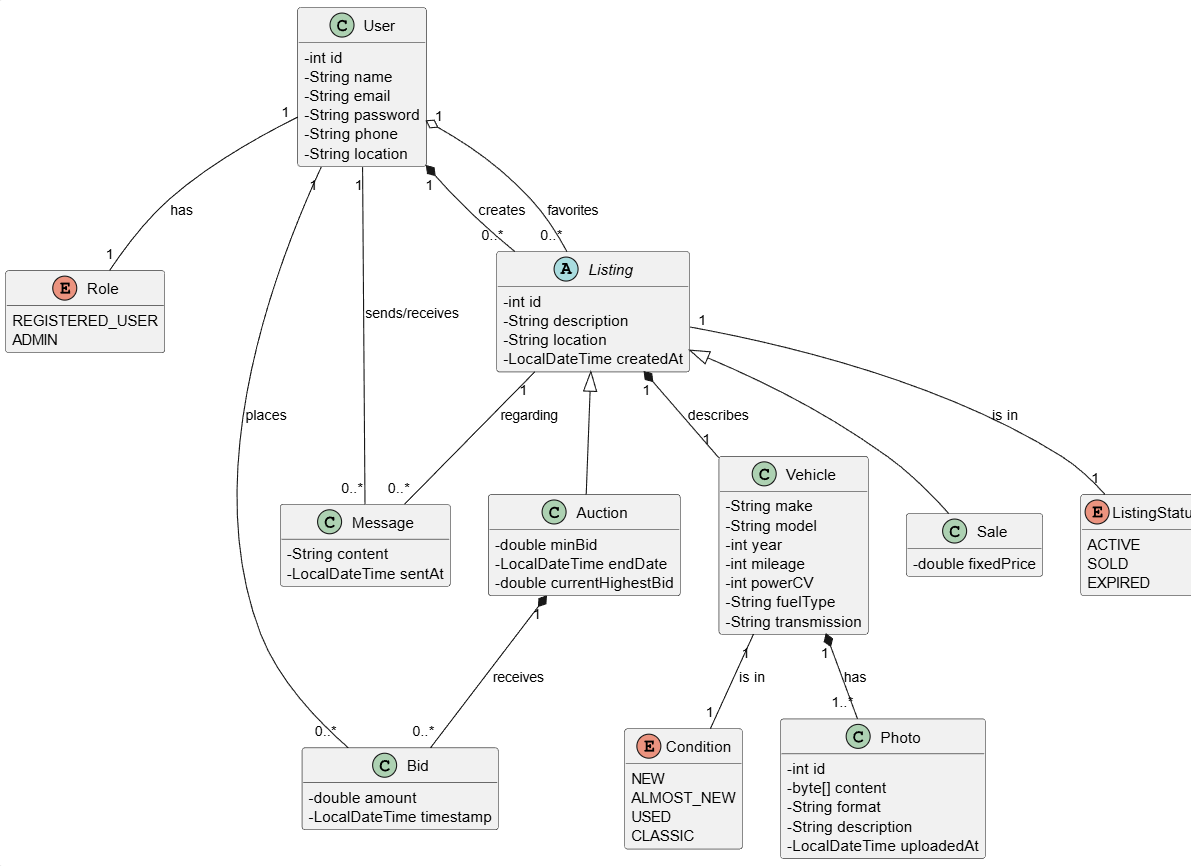
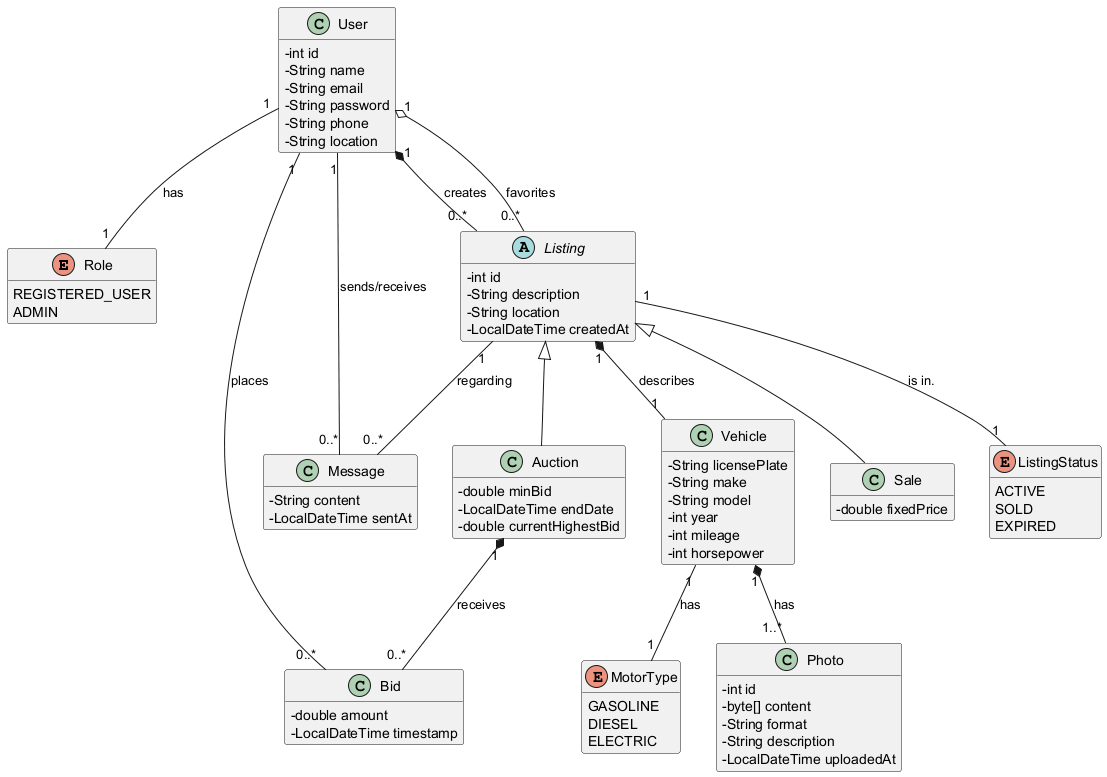
Create basic domain

diff --git a/src/main/java/eus/ehu/domain/Vehicle.java b/src/main/java/eus/ehu/domain/Vehicle.java
@@ -1,0 +1,121 @@
+package eus.ehu.domain;
+
+import javax.persistence.Column;
+import javax.persistence.Entity;
+import javax.persistence.EnumType;
+import javax.persistence.Enumerated;
+import javax.persistence.Id;
+import javax.persistence.JoinColumn;
+import javax.persistence.OneToOne;
+
+@Entity
+public class Vehicle {
+
+	@Id
+	@Column(name = "license_plate", updatable = false, nullable = false, length = 20)
+	private String licensePlate;
+
+	private String make;
+	private String model;
+	private int year;
+	private int mileage;
+	private int horsepower;
+
+	@Enumerated(EnumType.STRING)
+	@Column(nullable = false)
+	private MotorType motorType;
+
+	@OneToOne
+	@JoinColumn(name = "listing_id", nullable = false, unique = true)
+	private Listing listing;
+
+	protected Vehicle() {
+	}
+
+	public Vehicle(String licensePlate, String make, String model, int year, int mileage, int horsepower,
+			MotorType motorType, Listing listing) {
+		this.licensePlate = licensePlate;
+		this.make = make;
+		this.model = model;
+		this.year = year;
+		this.mileage = mileage;
+		this.horsepower = horsepower;
+		this.motorType = motorType;
+		this.listing = listing;
+	}
+
+	public String getLicensePlate() {
+		return licensePlate;
+	}
+
+	public String getMake() {
+		return make;
+	}
+
+	public void setMake(String make) {
+		this.make = make;
+	}
+
+	public String getModel() {
+		return model;
+	}
+
+	public void setModel(String model) {
+		this.model = model;
+	}
+
+	public int getYear() {
+		return year;
+	}
+
+	public void setYear(int year) {
+		this.year = year;
+	}
+
+	public int getMileage() {
+		return mileage;
+	}
+
+	public void setMileage(int mileage) {
+		this.mileage = mileage;
+	}
+
+	public int getHorsepower() {
+		return horsepower;
+	}
+
+	public void setHorsepower(int horsepower) {
+		this.horsepower = horsepower;
+	}
+
+	public MotorType getMotorType() {
+		return motorType;
+	}
+
+	public void setMotorType(MotorType motorType) {
+		this.motorType = motorType;
+	}
+
+	public Listing getListing() {
+		return listing;
+	}
+
+	public void setListing(Listing listing) {
+		this.listing = listing;
+	}
+
+	@Override
+	public String toString() {
+		return "Vehicle{" +
+				"licensePlate='" + licensePlate + '\'' +
+				", make='" + make + '\'' +
+				", model='" + model + '\'' +
+				", year=" + year +
+				", mileage=" + mileage +
+				", horsepower=" + horsepower +
+				", motorType=" + motorType +
+				", listingId=" + (listing != null ? listing.getId() : null) +
+				'}';
+	}
+
+}

diff --git a/src/main/java/eus/ehu/domain/Listing.java b/src/main/java/eus/ehu/domain/Listing.java
@@ -1,0 +1,97 @@
+package eus.ehu.domain;
+
+import javax.persistence.Column;
+import javax.persistence.Entity;
+import javax.persistence.EnumType;
+import javax.persistence.Enumerated;
+import javax.persistence.GeneratedValue;
+import javax.persistence.GenerationType;
+import javax.persistence.Id;
+import javax.persistence.ManyToOne;
+import javax.persistence.OneToOne;
+
+@Entity
+public abstract class Listing {
+
+    @Id
+    @Column(updatable = false, nullable = false)
+    @GeneratedValue(strategy = GenerationType.IDENTITY)
+    private Integer id;
+    private String description;
+    private String location;
+    @Enumerated(EnumType.STRING)
+    @Column(nullable = false)
+    private ListingStatus status;
+
+    @ManyToOne
+    private User user;
+
+    @OneToOne(mappedBy = "listing")
+    private Vehicle vehicle;
+
+    protected Listing() {
+    }
+
+    protected Listing(String description, String location, ListingStatus status, User user) {
+        this.description = description;
+        this.location = location;
+        this.status = status;
+        this.user = user;
+    }
+
+    public Integer getId() {
+        return id;
+    }
+
+    public String getDescription() {
+        return description;
+    }
+
+    public void setDescription(String description) {
+        this.description = description;
+    }
+
+    public String getLocation() {
+        return location;
+    }
+
+    public void setLocation(String location) {
+        this.location = location;
+    }
+
+    public ListingStatus getStatus() {
+        return status;
+    }
+
+    public void setStatus(ListingStatus status) {
+        this.status = status;
+    }
+
+    public User getUser() {
+        return user;
+    }
+
+    public void setUser(User user) {
+        this.user = user;
+    }
+
+    public Vehicle getVehicle() {
+        return vehicle;
+    }
+
+    public void setVehicle(Vehicle vehicle) {
+        this.vehicle = vehicle;
+    }
+
+    @Override
+    public String toString() {
+        return "Listing{" +
+                "id=" + id +
+                ", description='" + description + '\'' +
+                ", location='" + location + '\'' +
+                ", status=" + status +
+                ", userId=" + (user != null ? user.getId() : null) +
+                '}';
+    }
+    
+}

diff --git a/src/main/java/eus/ehu/domain/User.java b/src/main/java/eus/ehu/domain/User.java
@@ -1,9 +1,14 @@
 package eus.ehu.domain;
 
+import java.util.List;
+
+import javax.persistence.CascadeType;
+import javax.persistence.Column;
 import javax.persistence.Entity;
 import javax.persistence.GeneratedValue;
 import javax.persistence.GenerationType;
 import javax.persistence.Id;
+import javax.persistence.OneToMany;
 import javax.persistence.Table;
 
 @Entity
@@ -11,6 +16,7 @@ import javax.persistence.Table;
 public class User {
 
 	@Id
+	@Column(updatable = false, nullable = false)
 	@GeneratedValue(strategy = GenerationType.IDENTITY)
 	private Integer id;
 	private String name;
@@ -18,6 +24,9 @@ public class User {
 	private String password;
 	private String phone;
 	private String location;
+
+	@OneToMany(mappedBy = "user", cascade = CascadeType.ALL)
+	private List<Listing> publications;
 
 	protected User() {
 	}
@@ -72,6 +81,27 @@ public class User {
 
 	public void setLocation(String location) {
 		this.location = location;
+	}
+
+	public List<Listing> getPublications() {
+		return publications;
+	}
+
+	public void setPublications(List<Listing> publications) {
+		this.publications = publications;
+	}
+
+	@Override
+	public String toString() {
+		return "User{" +
+				"id=" + id +
+				", name='" + name + '\'' +
+				", email='" + email + '\'' +
+				", password='" + password + '\'' +
+				", phone='" + phone + '\'' +
+				", location='" + location + '\'' +
+				", publicationsCount=" + (publications != null ? publications.size() : 0) +
+				'}';
 	}
 
 }

diff --git a/src/main/java/eus/ehu/domain/DomainCreationCheck.java b/src/main/java/eus/ehu/domain/DomainCreationCheck.java
@@ -1,0 +1,35 @@
+package eus.ehu.domain;
+
+public class DomainCreationCheck {
+
+    public static void main(String[] args) {
+        User user = new User(
+                "Raul Garcia",
+                "raul@example.com",
+                "secret123",
+                "600123123",
+                "Bilbao");
+
+        Sale sale = new Sale(
+                "BMW 320d bien cuidado",
+                "Bilbao",
+                ListingStatus.ACTIVE,
+                user,
+                15499.99);
+
+        Vehicle vehicle = new Vehicle(
+                "1234ABC",
+                "BMW",
+                "320d",
+                2018,
+                98000,
+                190,
+                MotorType.DIESEL,
+                sale);
+
+        System.out.println("All domain objects were created successfully.");
+        System.out.println(user);
+        System.out.println(sale);
+        System.out.println(vehicle);
+    }
+}

diff --git a/src/main/java/eus/ehu/domain/Sale.java b/src/main/java/eus/ehu/domain/Sale.java
@@ -1,0 +1,35 @@
+package eus.ehu.domain;
+
+import javax.persistence.Entity;
+
+@Entity
+public class Sale extends Listing {
+
+    private double fixedPrice;
+
+    protected Sale() {
+    }
+
+    public Sale(String description, String location, ListingStatus status, User user, double fixedPrice) {
+        super(description, location, status, user);
+        this.fixedPrice = fixedPrice;
+    }
+
+    public double getFixedPrice() {
+        return fixedPrice;
+    }
+
+    public void setFixedPrice(double fixedPrice) {
+        this.fixedPrice = fixedPrice;
+    }
+
+    @Override
+    public String toString() {
+        return "Sale{" +
+                "id=" + getId() +
+                ", fixedPrice=" + fixedPrice +
+                ", status=" + getStatus() +
+                '}';
+    }
+
+}

diff --git a/src/main/java/eus/ehu/domain/MotorType.java b/src/main/java/eus/ehu/domain/MotorType.java
@@ -1,0 +1,7 @@
+package eus.ehu.domain;
+
+public enum MotorType {
+    GASOLINE,
+    DIESEL,
+    ELECTRIC
+}

diff --git a/src/main/java/eus/ehu/domain/ListingStatus.java b/src/main/java/eus/ehu/domain/ListingStatus.java
@@ -1,0 +1,7 @@
+package eus.ehu.domain;
+
+public enum ListingStatus {
+    ACTIVE,
+    SOLD,
+    EXPIRED
+}
